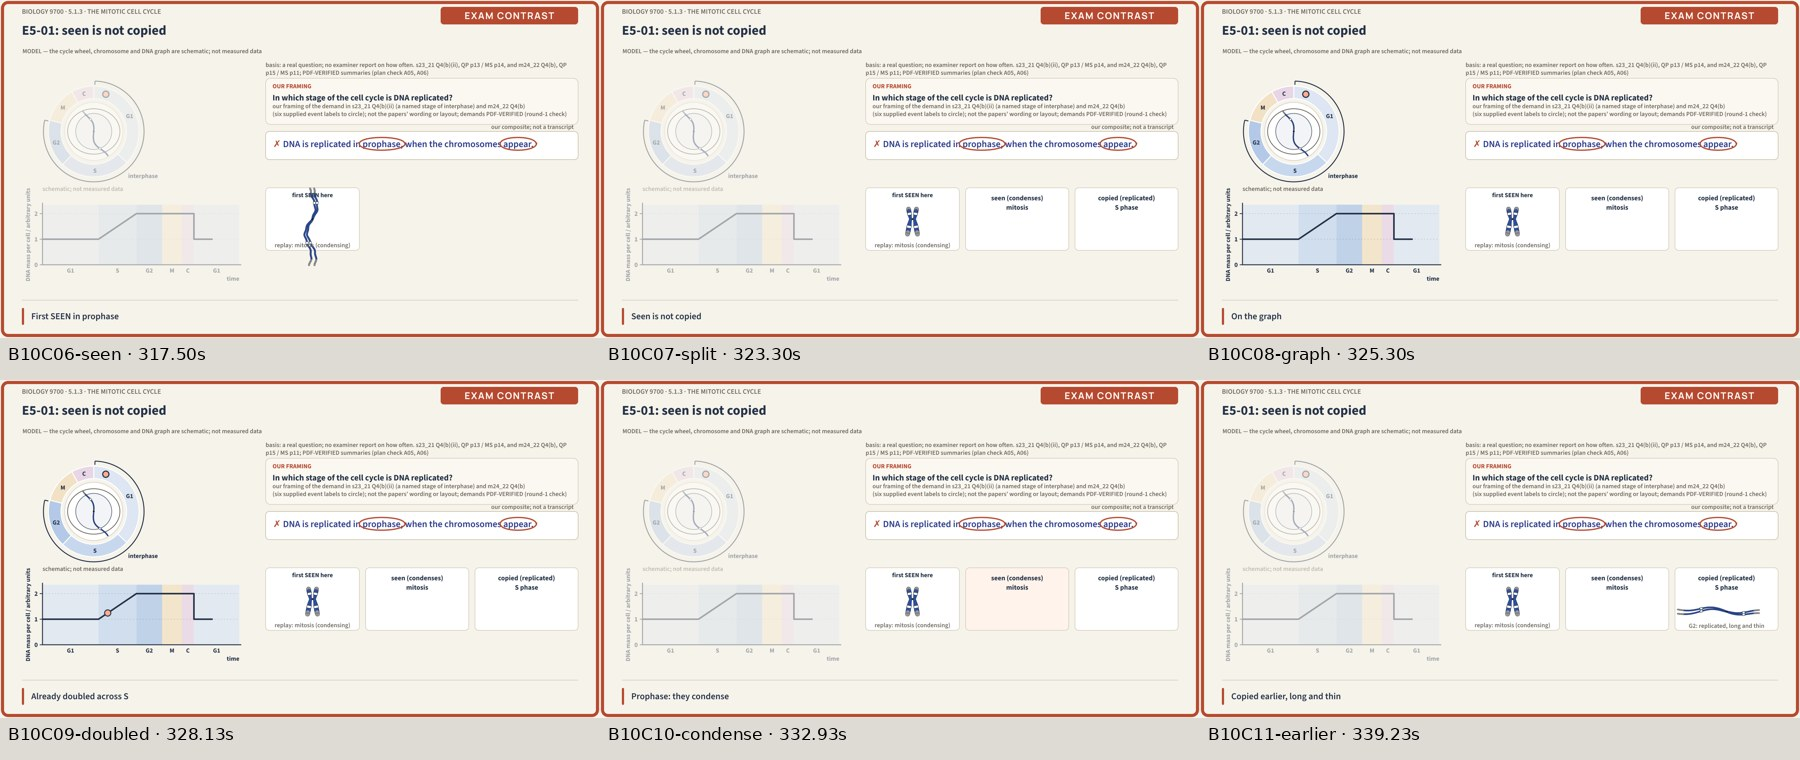
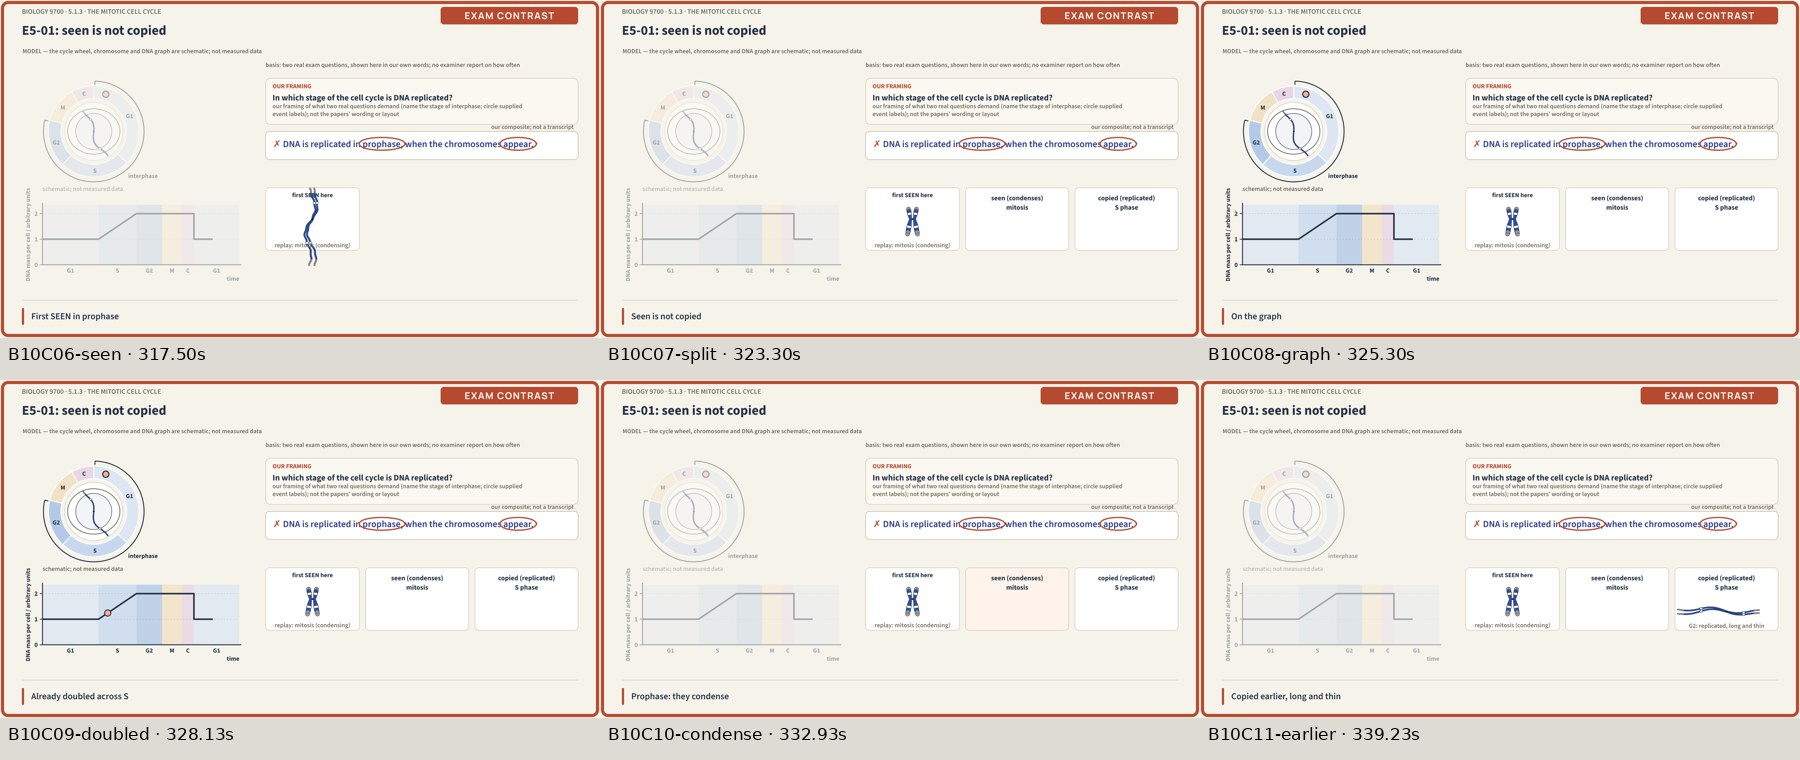
009g: 5.1.3 v3 — crossfade collisions fixed, every-frame label/overlap audit, no on-screen paper refs; Bunny status 4
Claude-Session: https://claude.ai/code/session_013gcwrjhmLRoZWGqaDpU7F1

diff --git a/work/5.1.3/src/beats/Beat10.tsx b/work/5.1.3/src/beats/Beat10.tsx
@@ -30,7 +30,7 @@ export default function Beat10(s: any) {
   const s2 = span(cx0, WRONG, WRONG.indexOf('when'), WRONG.length - 1, WS);
   const header = 'In which stage of the cell cycle is DNA replicated?';
   const hw = textW('In which stage of the cell cycle is DNA ', 27, 700);
-  const tabs = fi(a('tabs'), 0.4);
+  const tabs = fi(a('tabs') - 0.35, 0.4); // incoming tabs wait until the comparison panels (between(…, tabs), 0.35 s) are gone
   return (
     <g>
       {/* familiar models, held at left, dimmed */}
@@ -42,9 +42,9 @@ export default function Beat10(s: any) {
       {dot > 0 && dot < 1.01 && a('condense') < 0 && <circle data-role="decor" cx={lerp(gg.gx(ARCS.s[0]), gg.gx(ARCS.s[1]), dot)} cy={lerp(gg.gy(1), gg.gy(2), dot)} r={10} fill={T5.ring} stroke={T5.ringHalo} strokeWidth={3} />}
       {a('doubled') >= 0 && a('condense') < 0 && <rect data-role="decor" x={gg.gx(ARCS.m[0])} y={gg.gy(2) - 8} width={gg.gx(ARCS.m[1]) - gg.gx(ARCS.m[0])} height={16} rx={6} fill={T5.ring} opacity={0.6 * fi(a('doubled') - 1.5, 0.4)} />}
       {/* the panel */}
-      <Caption x={PX} y={214} size={15} maxW={PW} weight={600} fill={C.muted} text="basis: a real question; no examiner report on how often. s23_21 Q4(b)(ii), QP p13 / MS p14, and m24_22 Q4(b), QP p15 / MS p11; PDF-VERIFIED summaries (plan check A05, A06)" />
+      <Caption x={PX} y={214} size={15} maxW={PW} weight={600} fill={C.muted} text="basis: two real exam questions, shown here in our own words; no examiner report on how often" />
       <QHeader x={PX} y={250} w={PW} label="OUR FRAMING" text={header} size={27} opacity={fi(a('q'), 0.4)}
-        src={'our framing of the demand in s23_21 Q4(b)(ii) (a named stage of interphase) and m24_22 Q4(b)\n(six supplied event labels to circle); not the papers’ wording or layout; demands PDF-VERIFIED (round-1 check)'}
+        src={'our framing of what two real questions demand (name the stage of interphase; circle supplied\nevent labels); not the papers’ wording or layout'}
         hi={a('where') >= 0 ? <Underline x1={PX + 22 + hw} x2={PX + 22 + hw + textW('replicated', 27, 700)} y={250 + 44 + 27 + 8} p={fe(a('where'), 0.5)} color={T5.ring} /> : null} />
       <g opacity={fi(a('card'), 0.4)}>
         <rect data-role="decor" x={PX} y={cy - 50} width={PW} height={fix ? 140 : 90} rx={12} fill="#FFFFFF" stroke="#C9BFA8" strokeWidth={2} />
@@ -75,8 +75,8 @@ export default function Beat10(s: any) {
         {a('earlier') >= 0 && <g opacity={fi(a('earlier'), 0.4)}><Chromosome x={PX + 835} y={740} id="C1" cond={0} rep={1} rot={90} scale={0.42} wave={0.5} /><Txt x={PX + 835} y={792} size={14} weight={600} fill={C.muted} anchor="middle" italic>G2: replicated, long and thin</Txt></g>}
       </g>}
       {tabs > 0 && <g opacity={tabs < 1 ? tabs : undefined}>
-        <QuoteTab x={PX} y={600} w={485} size={18} quote={'s23_21 Q4(b)(ii): which stage of interphase;\n1 mark for S / synthesis phase; a bare ‘S’ ignored'} source="PDF-VERIFIED summary; not the scheme's wording" />
-        <QuoteTab x={PX + 505} y={600} w={495} size={18} quote={'m24_22 Q4(b): 1 mark requires circling\nboth interphase and S phase'} source="PDF-VERIFIED summary; not the scheme's wording" />
+        <QuoteTab x={PX} y={600} w={485} size={18} quote={'one scheme — which stage of interphase:\n1 mark for S / synthesis phase; a bare ‘S’ ignored'} source="our summary; not the scheme's wording" />
+        <QuoteTab x={PX + 505} y={600} w={495} size={18} quote={'another scheme — 1 mark requires circling\nboth interphase and S phase'} source="our summary; not the scheme's wording" />
         <Underline x1={PX + 18 + textW('1 mark for S / synthesis phase; ', 18, 600)} x2={PX + 18 + textW('1 mark for S / synthesis phase; a bare ‘S’ ignored', 18, 600)} y={600 + 30 + 23.4 + 6} p={fe(a('bare'), 0.5)} color={T5.ring} />
         <Underline x1={PX + 523} x2={PX + 523 + textW('both interphase and S phase', 18, 600)} y={600 + 30 + 23.4 + 6} p={fe(a('both'), 0.5)} color={T5.ring} />
         <Txt x={PX} y={760} size={15} weight={600} fill={C.muted} italic>G05: "Locate replication in S phase of interphase" (G05's summary)</Txt>

diff --git a/work/5.1.3/src/beats/Beat12.tsx b/work/5.1.3/src/beats/Beat12.tsx
@@ -30,7 +30,7 @@ export default function Beat12(s: any) {
   const MX = 1660, MY = 780;
   const sep = a('move') >= 0 ? 1 : 0;
   const tab = fi(a('tab'), 0.4);
-  const tabQ = 'w20_21 Q1(a)(iii), MS p6: “I ref. to replication or cytokinesis”';
+  const TABP = 'the mark scheme’s ignore line: “', tabQ = TABP + 'I ref. to replication or cytokinesis”';
   return (
     <g>
       <g opacity={lerp(0.4, 1, wheelLit)}>
@@ -41,8 +41,8 @@ export default function Beat12(s: any) {
       <Tag x={390} y={270} text="the question's scope: M" size={18} anchor="middle" opacity={fi(a('scope'), 0.4)} />
       <Tag x={530} y={860} text="outside M" size={16} anchor="middle" opacity={fi(a('outS'), 0.4)} />
       <Tag x={470} y={320} text="outside M" size={16} anchor="middle" opacity={fi(a('outC'), 0.4)} />
-      <Caption x={PX} y={214} size={15} maxW={PW} weight={600} fill={C.muted} text="basis: a real question; no examiner report on how often; the scheme's ignore line. w20_21 Q1(a)(iii), QP p2 / MS p6; 2 marks, any two credited points" />
-      <QHeader x={PX} y={250} w={PW} label="OUR FRAMING" text={header} size={27} opacity={fi(a('q'), 0.4)} src="our framing of w20_21 Q1(a)(iii); the paper's command word is suggest (PDF-VERIFIED, round-1 check)"
+      <Caption x={PX} y={214} size={15} maxW={PW} weight={600} fill={C.muted} text="basis: a real exam question, in our own words; no examiner report on how often; 2 marks, any two credited points" />
+      <QHeader x={PX} y={250} w={PW} label="OUR FRAMING" text={header} size={27} opacity={fi(a('q'), 0.4)} src="our framing of a real question; the paper's command word is suggest"
         hi={a('scope') >= 0 ? <Underline x1={hx} x2={hx + textW('mitosis', 27, 700)} y={250 + 44 + 27 + 8} p={fe(a('scope'), 0.5)} color={T5.ring} /> : null} />
       <g opacity={fi(a('card'), 0.4)}>
         <rect data-role="decor" x={PX} y={cy - 50} width={PW} height={fix ? 160 : 90} rx={12} fill="#FFFFFF" stroke="#C9BFA8" strokeWidth={2} />
@@ -57,11 +57,11 @@ export default function Beat12(s: any) {
         <Txt x={cx0} y={cy + 56} size={WS} weight={800} fill={GOOD}>✓</Txt>
         <Caption x={cx0 + WS * 1.05} y={cy + 56} size={27} maxW={PW - 80} weight={600} fill={GOOD} text={right} />
       </g>}
-      <Txt x={PX} y={cy + 140} size={15} weight={600} fill={C.muted} italic opacity={fi(a('fix2'), 0.4)}>Lesson model answer; all its points are supported by W20/21 Q1(a)(iii), MS p6; maximum two marks.</Txt>
+      <Txt x={PX} y={cy + 140} size={15} weight={600} fill={C.muted} italic opacity={fi(a('fix2'), 0.4)}>Lesson model answer; all its points are supported by that question's mark scheme; maximum two marks.</Txt>
       <SideNote x={PX} y={620} text="both use energy; both are in the cycle" size={22} color={INK} opacity={between(a('energy'), a('tab'))} />
       {tab > 0 && <g opacity={tab < 1 ? tab : undefined}>
-        <QuoteTab x={PX} y={640} w={640} size={20} quote={tabQ} source="PDF-VERIFIED (plan check A07)" accent />
-        <Underline x1={PX + 18 + textW('w20_21 Q1(a)(iii), MS p6: “', 20, 600)} x2={PX + 18 + textW(tabQ, 20, 600)} y={640 + 36} p={fe(a('ign'), 0.6)} color={T5.ring} />
+        <QuoteTab x={PX} y={640} w={640} size={20} quote={tabQ} source="quoted from the mark scheme" accent />
+        <Underline x1={PX + 18 + textW(TABP, 20, 600)} x2={PX + 18 + textW(tabQ, 20, 600)} y={640 + 36} p={fe(a('ign'), 0.6)} color={T5.ring} />
       </g>}
       {a('bound') >= 0 && <g opacity={fi(a('bound'), 0.4)}>
         <rect data-role="decor" x={PX} y={750} width={640} height={70} rx={10} fill="#EAF0F8" stroke="#B3C9E7" strokeWidth={2} />

diff --git a/work/5.1.3/src/beats/Beat14.tsx b/work/5.1.3/src/beats/Beat14.tsx
@@ -12,11 +12,11 @@ import {FormRow, formRowH, Caption, INK} from './kit';
 
 const GOOD = '#1D6B40';
 const ROWS = [
-  ['which stage of interphase is DNA replicated in?', 'our framing of s23_21 Q4(b)(ii), 1 mark (QP p13 / MS p14)', 'r1'],
-  ['circle the phase(s) of the cycle', 'our framing of m24_22 Q4(b), 1 mark (QP p15 / MS p11); both interphase and S phase circled for the mark (PDF-VERIFIED summary, A06)', 'r2'],
-  ['DNA mass or chromatid numbers through the cycle', 's22_12 Q19 (key D); s21_12 Q18 (key C, 92/46/92 chromatids); s23_12 Q21 (key B); s24_12 Q19 (key D); keys PDF-VERIFIED; keys and demands re-checked against the PDFs (round-1 check); stems not quoted', 'r3'],
-  ['the role of ATP in mitosis', 'w20_21 Q1(a)(iii), 2 marks (QP p2 / MS p6); MS “I ref. to replication or cytokinesis” (PDF-VERIFIED, A07)', 'r4'],
-  ['apply supplied information to the S phase, G2 and chromatid state', 's24_23 Q5(c)(i–ii), 2 + 2 marks (QP p13 / MS pp9–10); demands and marking points PDF-VERIFIED (round-1 check), summarised, not quoted', 'forms'],
+  ['which stage of interphase is DNA replicated in?', 'our framing of a real question, 1 mark', 'r1'],
+  ['circle the phase(s) of the cycle', 'our framing of a real question, 1 mark; both interphase and S phase circled for the mark (our summary)', 'r2'],
+  ['DNA mass or chromatid numbers through the cycle', 'four real multiple-choice items (one counts 92 / 46 / 92 chromatids); stems not quoted', 'r3'],
+  ['the role of ATP in mitosis', 'a real question, 2 marks; its mark scheme: “I ref. to replication or cytokinesis”', 'r4'],
+  ['apply supplied information to the S phase, G2 and chromatid state', 'a real question with supplied information, 2 + 2 marks; demands and marking points summarised, not quoted', 'forms'],
 ];
 export default function Beat14(s: any) {
   const a = s.a;
@@ -37,8 +37,8 @@ export default function Beat14(s: any) {
       <Ring cx={1090} cy={400} rx={175} ry={175} p={fe(a('r2'), 0.8)} opacity={1 - fi(a('r3'), 0.4)} />
       <DNAContentGraph x={1270} y={240} w={580} h={300} small pen={1.3} caption={1} hiRise={pulse(a('r3'), 1.6)} hiDrop={pulse(a('r3') - 0.8, 1.6)} />
       {rows.map((r, i) => <FormRow key={i} x={FX} y={r.y} w={FW} title={r.t} cite={r.c} a={a(r.k)} />)}
-      <Txt x={FX + 20} y={rows[0].y + 104} size={15} weight={600} fill={C.muted} italic opacity={fi(a('r1b'), 0.4)}>S / synthesis phase credited; a bare 'S' ignored (PDF-VERIFIED summary, A05)</Txt>
-      <Caption x={FX} y={908} size={14} maxW={FW} weight={600} fill={C.muted} text={'outline answers — Learner Guide PDF p15: “Detail is not required.” (PDF-VERIFIED, plan check A01): guidance for the exam answer, not for how fully we explain.'} />
+      <Txt x={FX + 20} y={rows[0].y + 104} size={15} weight={600} fill={C.muted} italic opacity={fi(a('r1b'), 0.4)}>S / synthesis phase credited; a bare 'S' ignored (our summary of the scheme)</Txt>
+      <Caption x={FX} y={908} size={14} maxW={FW} weight={600} fill={C.muted} text={'outline answers — Learner Guide: “Detail is not required.”: guidance for the exam answer, not for how fully we explain.'} />
       {card > 0 && <g opacity={card < 1 ? card : undefined}>
         <rect data-role="decor" x={910} y={580} width={940} height={180} rx={14} fill="#FFFFFF" stroke={INK} strokeWidth={2} />
         <Txt x={932} y={624} size={24} weight={800} fill={INK}>✗</Txt>

diff --git a/work/5.1.3/src/beats/Beat09.tsx b/work/5.1.3/src/beats/Beat09.tsx
@@ -23,7 +23,7 @@ export default function Beat09(s: any) {
   const K = ['lc', 'lm', 'ls'];
   const done = a('ls') >= 2.4 || a('written') >= 0;                // the third link has been said: completed mapping
   const link = (i: number) => a(K[i]) < 0 ? 0 : done ? 1 : (i < 2 && a(K[i + 1]) >= 0) ? 0.45 : fi(a(K[i]), 0.3);
-  const hk = [0, 1, 2].map(link), cardO = icons * (1 - fi(a('written'), 0.4));
+  const hk = [0, 1, 2].map(link), cardO = icons * (1 - fi(a('written'), 0.25));   // run 009g: card gone before the sentence strip comes in
   const glS = Math.max(fi(a('cl1'), 0.3) * (1 - fi(a('cl2'), 0.3)), hk[0] * cardO), glM = Math.max(fi(a('cl2'), 0.3) * (1 - fi(a('cl3'), 0.3)), hk[1] * cardO), glC = Math.max(fi(a('cl3'), 0.3) * (1 - fi(a('ident'), 0.3)), hk[2] * cardO);
   const ROWS = [['copy', 'replication, in the S phase', 'S arc · graph rise'], ['share', 'mitosis: copies shared between two new nuclei', 'M arc'], ['split', 'cytokinesis: the cytoplasm divides', 'C arc · graph drop']];
   const icon = (i: number, x: number, y: number) => i === 0
@@ -31,7 +31,7 @@ export default function Beat09(s: any) {
     : i === 1 ? <path d={`M${x - 18} ${y}H${x}L${x + 18} ${y - 13}M${x} ${y}L${x + 18} ${y + 13}`} fill="none" stroke={INK} strokeWidth={3} strokeLinecap="round" />
     : <><circle cx={x - 10} cy={y} r={11} fill="none" stroke={INK} strokeWidth={2.5} /><circle cx={x + 13} cy={y} r={11} fill="none" stroke={INK} strokeWidth={2.5} /></>;
   const why = fi(a('why'), 0.4), pinch = fe(a('why') - 0.5, 2);
-  const shown = typed(SENT, a('written') + 0.0, 16).length;
+  const shown = typed(SENT, a('written') - 0.25, 16).length;
   return (
     <Stage wheel={{labels: ALL, bracket: 1, caption: 1, marker: 1, pos: 1.05, lit: {s: glS * 0.8, m: glM * 0.8, c: glC * 0.8}, inset: ins}}
       graph={{pen: 1.12, hiRise: glS, hiM: glM, hiDrop: glC}} insetCap={1}>
@@ -47,7 +47,7 @@ export default function Beat09(s: any) {
           <Txt x={1100} y={y} size={24} weight={700} fill={INK}>{t}</Txt>
         </g> : null; })}
       </g>}
-      <SentenceStrip x={890} y={690} w={950} text={SENT} shown={shown} size={26} opacity={fi(a('written'), 0.4)} label="the sentence you write" />
+      <SentenceStrip x={890} y={690} w={950} text={SENT} shown={shown} size={26} opacity={fi(a('written') - 0.25, 0.3)} label="the sentence you write" />
       <Tag x={W.cx} y={W.cy + 120} text="same bands on both copies" size={20} anchor="middle" opacity={between(a('ident') - 0.4, a('why') - 2.5)} />
       {why > 0 && <g opacity={why < 1 ? why : undefined}>
         <rect data-role="decor" x={1500} y={832} width={340} height={112} rx={12} fill="#FFFFFF" stroke="#D6CEBD" strokeWidth={2} />

diff --git a/work/5.1.3/src/beats/Beat04.tsx b/work/5.1.3/src/beats/Beat04.tsx
@@ -19,7 +19,7 @@ export default function Beat04(s: any) {
     <Stage
       wheel={{labels: ALL, bracket: 1, caption: 1, marker: 1, pos, long: {g1: fi(a('g1'), 0.3)},
         inset: {on: fi(s.local, 0.5), nucleus: 1, cell: 1, cellGrow: fe(a('prot'), 3), rep: -1, cond: 0, ripple: a('thin') < 0 ? 0 : Math.min(2, a('thin') / 1.2)}}}
-      graph={graphIn > 0 ? {pen, opacity: graphIn, x: lerp(1100, 890, graphIn) as any} as any : null}
+      graph={graphIn > 0 ? {pen, opacity: graphIn, y: lerp(310, 250, graphIn) as any} as any : null}   // run 009g: slides up into place (the old slide from x 1100 put its right-hand text off the frame)
       rows={strip ? [{chrom: 4, dna: 4, comp: 'whole cell'}] : undefined}
       human={strip ? 'typical diploid human somatic cell: whole cell 46 chromosomes · 46 DNA molecules' : undefined}
       stripOp={fi(a('flat1'), 0.4)}

diff --git a/work/5.1.3/src/beats/Beat08.tsx b/work/5.1.3/src/beats/Beat08.tsx
@@ -38,7 +38,7 @@ export default function Beat08(s: any) {
       <Tag x={gg.gx(1.0) - 16} y={gg.gy(1.5)} text="2 units ÷ 2 cells = 1 unit each" size={20} anchor="end" opacity={fi(a('half'), 0.4)} />
       {hl > 0 && <rect data-role="decor" x={898} y={660} width={934} height={66} rx={10} fill={T5.ring} opacity={0.4 * hl} />}
       {pulse(a('d46'), 1.4) > 0 && <rect data-role="decor" x={890} y={745} width={950} height={40} rx={10} fill={T5.ring} opacity={0.35 * pulse(a('d46'), 1.4)} />}
-      <Tag x={W.cx} y={290} text="each daughter cell can go round again" size={20} anchor="middle" opacity={fi(a('next'), 0.4)} />
+      <Tag x={W.cx} y={290} text="each daughter cell can go round again" size={20} anchor="middle" opacity={fi(a('next') - 0.35, 0.4)} />
     </Stage>
   );
 }

diff --git a/work/5.1.3/REPORT-v2.md b/work/5.1.3/REPORT-v2.md
@@ -1,36 +1,3 @@
-# 5.1.3 The mitotic cell cycle: copy first, then share — REPORT **v3** (cloud run 009g fix pass)
-
-**Model:** claude-opus-5-5 · branch `cloud/009g-fix-3a72s8` (from `cloud/009f-fix-4t1jp6`) · 27 Sep 2026 (UTC) · v2 report: `REPORT-v2.md` (unchanged below)
-**Bunny v3 (review):** guid `a869c16c-8337-49ae-a27d-c44751408203`, title "REVIEW 5.1.3 v3 The mitotic cell cycle: copy first, then share", no collection; uploaded 2026-09-27T16:52:13Z; **status 4 at 2026-09-27T16:55:18Z** (≈3 min); 240p–1080p, length 543 s. v1/v2 guids untouched.
-
-## Review findings (5.1.3-V2-REVIEW, CHANGES) → fixes
-| Finding | Fix |
-|---|---|
-| P2 B8 04:12.8: "C — cytokinesis…" long label and "each daughter cell can go round again" cross-fade on one baseline | `Beat08.tsx`: the incoming tag waits 0.35 s — the wheel's long label (0.3 s fade from `next`) is gone before it starts. |
-| P2 B10 05:50.4: quote tabs overprint the seen/copied comparison panels | `Beat10.tsx`: tabs = `fi(a('tabs') − 0.35, 0.4)`; the comparison panels (`between(…, tabs)`, 0.35 s) have faded out first. |
-| Sampled audit missed the crossfades | `verify-label-size.cjs` now checks **EVERY frame** (15,955) and counts text as visible from opacity > 0.02 (was ≥ 0.3), for both the ≥ 17 px rule and the text-box overlap rule. Proven on the v2 source: it fails B8 f7430 and B10 f10357 (7 pairs); passes on v3. It also caught two more v2 transitions, fixed: B4 graph slid in from x 1100 (its right-hand labels off the frame) → now slides up into place; B9 hook card vs "Written properly" strip (7×16 px) → card fades in 0.25 s, strip after. |
-| NEW rule: exam questions in our own words — no on-screen paper/session/year | Removed every on-screen paper code, page and verification tag (B10, B12, B14 panels, tabs, citations): e.g. "basis: two real exam questions, shown here in our own words…", tabs "one scheme — …" / "another scheme — …", "the mark scheme's ignore line: “I ref. to replication or cytokinesis”" (the scheme's words stay quoted exactly), forms rows "our framing of a real question, 1 mark". Captions had none. Narration not re-voiced. |
-
-## Phases (UTC)
-setup 16:10–16:20 · fixes + every-frame audit 16:20–16:32 · render 14 beats 16:32–16:38 · finish/verify 16:38–16:41 · sheets/bookends 16:42–16:47 · branding 16:44–16:51 · upload 16:52 → status 4 16:55.
-
-## Master / branded (v3)
[2 lines of base64/hex data omitted]
-
-## Verification (master) — all PASS
-1 ffprobe 531.833 · 2 video ≥ audio · 3 decode clean · 4 cues 150/150/150 · 5 AAC packets identical (24,884) · 6 final word "cells" headroom 3.05 s · 7 holds −91 dB (B9 hook 2 s, B10 4 s, B12 4 s, END) · 8 boundary holds 0 · marker audit every frame: EXAM CONTRAST B10/B12 only, 4,207 marked / 11,748 unmarked, 0 mismatches · **label size + overlap, every frame: 15,955 frames, min 17.60 px, 0 failures, 0 overlaps** · text-only controls PASS, longest text-only 0.5 s, 0 untagged.
-
-## Count audit (encoded master, frame before | event) — unchanged event frames
-end S f3863: 4 · in progress → 4 (8 sister chromatids) · 8 · centromeres divide f5708: 4·8 → 8·8 · new nuclei f6073: + each new nucleus 4·4 · cytokinesis f6905 (checked in the v3 encode): connected outline, whole cell 8·8 + 4·4 → two cells, each daughter cell 4·4, graph drops.
-
-## Sheets
-Per-beat stills for B4/8/9/10/12/14 and the 10 encoded sheets looked at; B12 basis line shortened to one line. No other defect.
-
-## Shared models — unchanged from v2, byte-identical to `work/t5-shared` (see SHARED.md). Images: none.
-
----
-
 # 5.1.3 The mitotic cell cycle: copy first, then share — REPORT **v2** (cloud run 009f fix pass)
 
 **Model:** claude-opus-5-5 · branch `cloud/009f-fix-4t1jp6` (from `cloud/009-5.1.1-to-5.1.4-qls6vy`) · 27 Sep 2026 (UTC) · v1 report: `REPORT-v1.md`

diff --git a/work/5.1.3/PROGRESS.md b/work/5.1.3/PROGRESS.md
@@ -1,5 +1,7 @@
 # 5.1.3 The mitotic cell cycle · BUILD PROGRESS (handover)
 
+**v3 (run 009g, 27 Sep, branch `cloud/009g-fix-3a72s8`): DONE — B8/B10 crossfade collisions fixed, every-frame label audit, on-screen paper references removed; uploaded "REVIEW 5.1.3 v3 …", Bunny status 4 (guid a869c16c-…); see REPORT.md (v3 on top).**
+
 **v2 (run 009f, 27 Sep, branch `cloud/009f-fix-4t1jp6`): DONE — review fixes applied, re-rendered, verified (incl. label-size/overlap audit and delivered-file check), re-branded, uploaded as "REVIEW 5.1.3 v2 …" and at Bunny status 4; see REPORT.md (v2) — the table below is the v1 build.**
 
 
